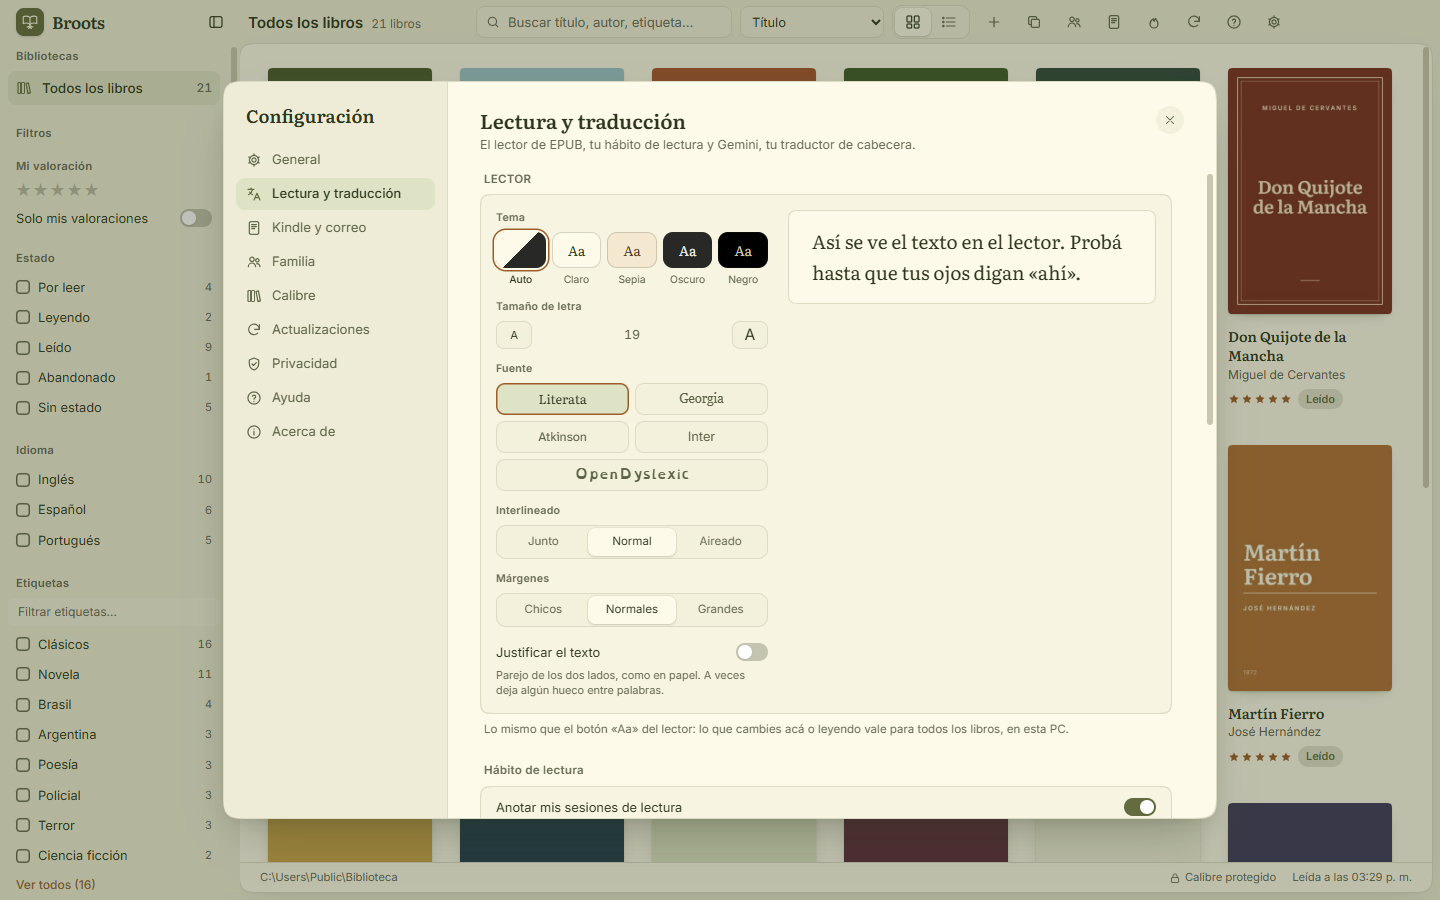
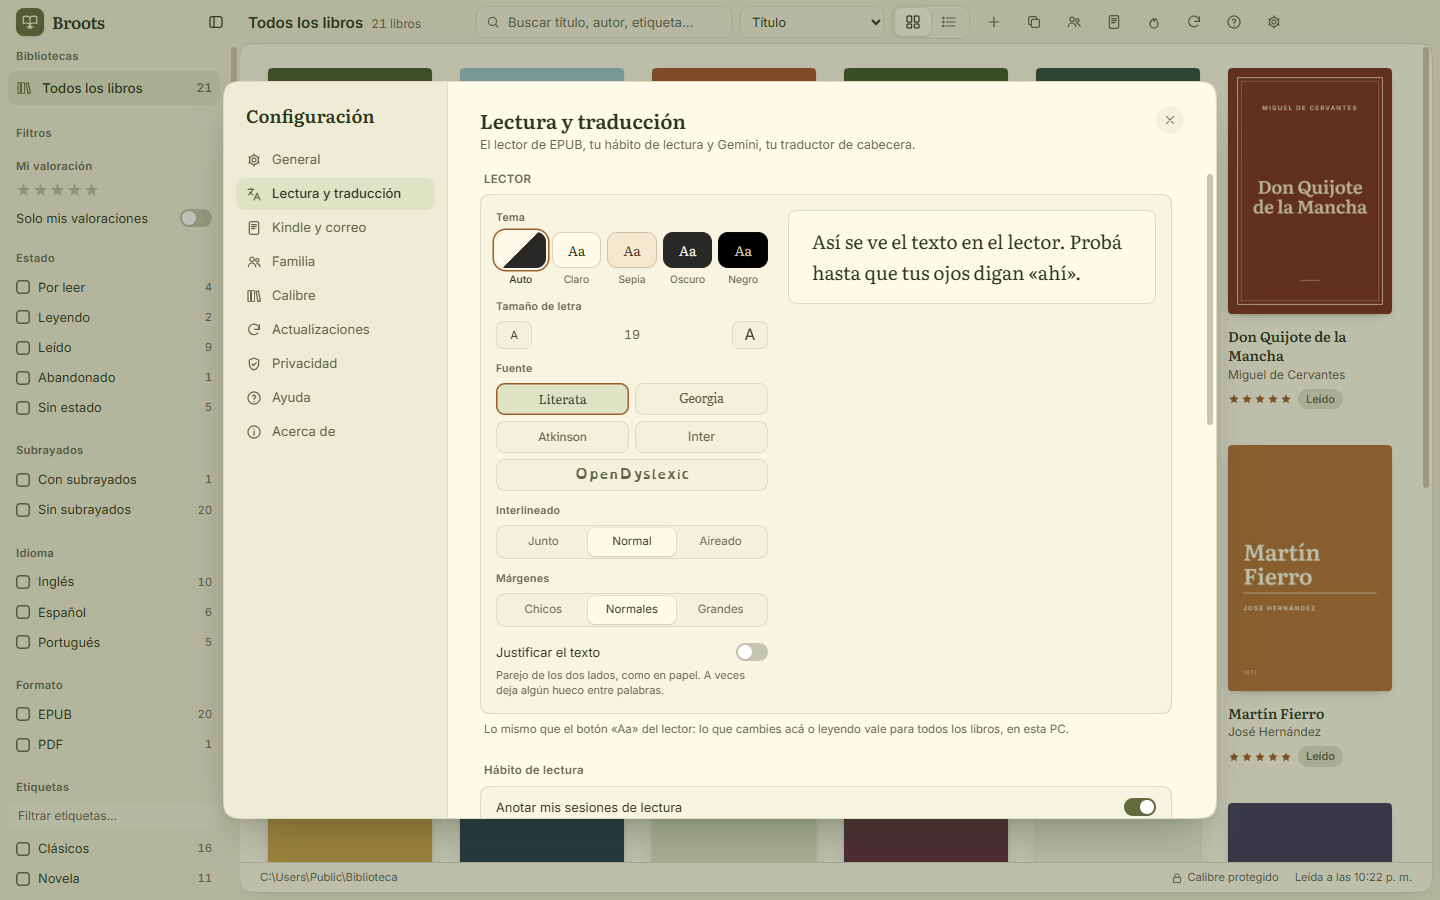
Broots 1.14.0

Changed region(s): [[0.0, 0.4978, 0.0938, 0.9956], [0.8125, 0.9644, 0.9375, 0.9956]]

diff --git a/README.md b/README.md
@@ -1,19 +1,28 @@
 # Broots
 
 **Tu biblioteca de libros electrónicos, compatible con Calibre.** Una app para Windows para ordenar, buscar,
-editar y leer tus e-books, mandarlos a tu Kindle, guardar tus subrayados y compartir libros con tu familia.
+editar y leer tus e-books (EPUB, PDF y cómics), subrayarlos, traducirlos, escucharlos en voz alta, mandarlos a tu
+Kindle y compartirlos con tu familia.
 
 Broots es gratis y es software libre. **[Bajar la última versión](https://github.com/IVANICUSXXIII/broots/releases/latest)**.
 
-> **English.** An e-book manager for Windows that works with your Calibre library. Free software (GPL-3.0 or
-> later), in English, Spanish and Brazilian Portuguese. [Download the latest version](https://github.com/IVANICUSXXIII/broots/releases/latest);
-> it updates itself from 1.6.0 on. The installer isn’t digitally signed yet ([code signing policy](#code-signing-policy)): if Windows says “Windows protected
-> your PC”, click “More info” and then “Run anyway”.
+> **English.** An e-book manager for Windows that works right on top of your Calibre library. Browse your shelf,
+> edit everything, and read EPUB, PDF and comics with highlights and notes, translation as you read, an offline
+> dictionary and read-aloud voices. Send books to your Kindle and share them with your family. Free software
+> (GPL-3.0 or later), in English, Spanish and Brazilian Portuguese, and it updates itself.
+> [Download the latest version](https://github.com/IVANICUSXXIII/broots/releases/latest).
+> The installer isn’t digitally signed yet ([why](#code-signing-policy)), so Windows will say “Windows protected
+> your PC”: click “More info” and then “Run anyway”. It’s built by GitHub Actions from the code in this repository,
+> and each release lists its SHA-256.
 >
-> **Português.** Um gerenciador de e-books para Windows que funciona com a sua biblioteca do Calibre. Software
-> livre (GPL-3.0 ou posterior), em português do Brasil, inglês e espanhol. [Baixe a versão mais recente](https://github.com/IVANICUSXXIII/broots/releases/latest);
-> a partir da 1.6.0 ele se atualiza sozinho. O instalador ainda não tem assinatura digital: se o Windows disser
-> “O Windows protegeu o computador”, clique em “Mais informações” e depois em “Executar assim mesmo”.
+> **Português.** Um gerenciador de e-books para Windows que funciona direto na sua biblioteca do Calibre. Estante
+> de capas, edição completa e leitura de EPUB, PDF e quadrinhos com destaques e notas, tradução enquanto você lê,
+> dicionário sem internet e leitura em voz alta. Envie livros para o Kindle e compartilhe com a família. Software
+> livre (GPL-3.0 ou posterior), em português do Brasil, inglês e espanhol, e se atualiza sozinho.
+> [Baixe a versão mais recente](https://github.com/IVANICUSXXIII/broots/releases/latest).
+> O instalador ainda não tem assinatura digital, então o Windows vai dizer “O Windows protegeu o computador”:
+> clique em “Mais informações” e depois em “Executar assim mesmo”. Ele é gerado pelo GitHub Actions a partir do
+> código deste repositório, e cada versão mostra o seu SHA-256.
 
 <picture>
   <source media="(prefers-color-scheme: dark)" srcset="docs/capturas/estanteria-oscuro.png">
@@ -42,35 +51,57 @@ la biblioteca (`metadata.db`).
 
 ## Qué podés hacer
 
-- **Tu estantería:** tus libros en grilla o en lista, con portadas grandes, filtros por autor, etiqueta o
-  serie, y el buscador con las mismas búsquedas que Calibre (`tags:novela`, `rating:>3`…). Las etiquetas con
-  jerarquía de Calibre («Sagas.Harry Potter») se ven en árbol, y también las bibliotecas virtuales que armaste.
+**Tu biblioteca**
+
+- **Tu estantería:** tus libros en grilla o en lista, con portadas grandes, filtros por autor, etiqueta,
+  serie, estado de lectura o idioma, y el buscador con las mismas búsquedas que Calibre (`tags:novela`,
+  `rating:>3`…). Las etiquetas con jerarquía de Calibre («Sagas.Harry Potter») se ven en árbol, y también las
+  bibliotecas virtuales que armaste. Doble clic en una portada y ya estás leyendo.
 - **Editar:** todos los datos de un libro (título, autores, serie, etiquetas, fechas, editorial, tus columnas
   propias), la portada y los formatos. «Buscar datos» trae datos y portadas de Google Books y Open Library, o
   de la página de un libro que pegues.
-- **Agregar y convertir:** arrastrá archivos a la ventana para sumarlos. Si un libro no tiene EPUB o PDF,
-  Broots lo convierte con las herramientas de Calibre.
+- **Agregar y convertir:** arrastrá archivos a la ventana para sumarlos. Si un archivo no trae datos, Broots
+  saca del nombre el título, el autor y la serie. Si un libro no tiene EPUB o PDF, lo convierte con las
+  herramientas de Calibre.
 - **Libros repetidos:** Broots encuentra los libros que tenés dos veces y te deja elegir cuál conservar,
   sin perder formatos ni subrayados.
+
+**Leer**
+
+- **Lector de EPUB, a tu medida:** tema (claro, sepia, oscuro o negro), cinco fuentes (entre ellas Atkinson,
+  muy legible, y OpenDyslexic), tamaño, interlineado y márgenes. Pellizcá el trackpad para agrandar la letra y
+  tocá una imagen para verla en grande.
+- **PDF y cómics:** PDF y cómics (CBZ y CBR) de a una o dos páginas, con zoom y manga de derecha a izquierda.
+  En los PDF también podés seleccionar texto, subrayar, anotar, definir, explicar y traducir. No abre archivos
+  con DRM ni con contraseña.
+- **Traducir:** con una clave gratuita de Gemini (tuya), Broots traduce el libro mientras leés: en un EPUB,
+  párrafo por párrafo en el lugar (tocás uno y ves el original); en un PDF, en un panel al costado.
+- **Explicar:** seleccioná una palabra, un nombre o una frase y Gemini te cuenta qué quiere decir ahí, sin
+  spoilers.
+- **Definir:** seleccioná una palabra y mirá qué significa, al instante y sin internet. Hay diccionario de
+  español, inglés y portugués, armados con Wiktionary; cada uno se baja la primera vez que lo pedís. Entiende
+  las palabras conjugadas: «corrió» te lleva a «correr».
+- **Escuchar:** Broots te lee el libro en voz alta, resaltando el párrafo que suena y pasando de página solo.
+  Sin internet, con voces que se bajan la primera vez (Daniela, con acento argentino, para español; Kristin
+  para inglés y Faber para portugués), o con la voz de Gemini. Si el párrafo está traducido, lee la traducción.
+  Por ahora, en EPUB.
+- **Subrayados y notas:** subrayá en cuatro colores y anotá lo que se te ocurra, en EPUB y en PDF. Tus
+  subrayados del Kindle aparecen en la misma lista, y cada libro tiene su archivo Markdown para Obsidian o
+  Notion, que se actualiza solo.
+- **Hábito de lectura:** Broots anota tus sesiones de lectura (con meta opcional y descanso para la vista) y
+  te muestra tu racha, tu ritmo, el mapa de calor del año y cuánto te falta para terminar cada libro. Estados
+  En pausa y Abandonado, relecturas y un modo enfoque que deja solo el texto.
+
+**Y además**
+
 - **Kindle:** mandá libros a tu Kindle por mail, desde tu cuenta de Gmail, e importá tus subrayados (el
   archivo `My Clippings.txt`). Si un libro está en el Kindle pero no en tu biblioteca, lo podés sumar.
 - **Club de lectura:** llevá un libro con tus subrayados y notas a Claude, Gemini o NotebookLM, para charlar
   sobre él con una inteligencia artificial.
-- **PDF y cómics:** leé PDF y cómics (CBZ y CBR) dentro de Broots, de a una o dos páginas, con zoom y manga de derecha a
-  izquierda. Tu página queda guardada y la lectura cuenta en «Mi lectura». No abre archivos con DRM ni con contraseña.
-- **Lector:** leé tus EPUB dentro de Broots, a tu medida: tema (claro, sepia, oscuro o negro), fuente,
-  tamaño, interlineado y márgenes. Con una clave gratuita de Gemini, traduce el libro mientras leés, y
-  «Explicar» te aclara una frase en su contexto.
-- **Definir:** seleccioná una palabra y mirá qué significa, al instante y sin internet. Hay diccionario de
-  español, inglés y portugués, armados con Wiktionary; cada uno se baja la primera vez que lo pedís.
-- **Subrayados y notas:** subrayá en cuatro colores y anotá lo que se te ocurra. Tus subrayados del Kindle
-  aparecen en la misma lista, y cada libro tiene su archivo Markdown para Obsidian o Notion.
-- **Hábito de lectura:** Broots anota tus sesiones de lectura (con meta opcional y descanso para la vista) y
-  te muestra tu racha, tu ritmo, el mapa de calor del año y cuánto te falta para terminar cada libro. Estados
-  En pausa y Abandonado, relecturas y un modo enfoque que deja solo el texto.
 - **Familia:** compartí libros con la gente de tu casa. Broots arma en tu Google Drive una copia solo con
   los libros de cada uno, que ellos abren en modo solo lectura.
-- **Ayuda:** un manual completo dentro de la app (tecla F1), con buscador.
+- **En tu idioma:** español, inglés y portugués de Brasil, con tema claro y oscuro.
+- **Ayuda:** un tour de bienvenida y un manual completo dentro de la app (tecla F1), con buscador.
 
 ## Cómo se ve
 
@@ -100,6 +131,14 @@ estés en un avión.
   <img src="docs/capturas/definir-claro.png" alt="El lector de Broots con el comienzo de Don Quijote y la definición de «hidalgo» en una tarjeta">
 </picture>
 
+**Un PDF, subrayado y traducido.** *The Adventures of Sherlock Holmes* en PDF: seleccionás el texto como en una
+página web, lo subrayás, y la traducción va en un panel al costado.
+
+<picture>
+  <source media="(prefers-color-scheme: dark)" srcset="docs/capturas/pdf-oscuro.png">
+  <img src="docs/capturas/pdf-claro.png" alt="El lector de PDF de Broots con el comienzo de A Scandal in Bohemia, una frase subrayada en amarillo y la traducción al español en un panel al costado">
+</picture>
+
 **Configuración.** Ordenada por secciones, como en macOS.
 
 <picture>
@@ -114,8 +153,12 @@ para crear tu biblioteca y sumá algunos libros.
 
 1. Bajá el instalador más reciente («Instalar-Broots-X.Y.Z.exe») de la
    [página de versiones de Broots](https://github.com/IVANICUSXXIII/broots/releases/latest) en GitHub.
-2. Abrilo. Como el instalador todavía no tiene firma digital, puede aparecer el aviso «Windows protegió su
-   PC»: tocá «Más información» y después «Ejecutar de todas formas».
+2. Abrilo. Como el instalador todavía no tiene firma digital, Windows muestra el aviso «Windows protegió su
+   PC»: tocá «Más información» y después «Ejecutar de todas formas». El aviso no quiere decir que Broots tenga
+   un virus: Windows lo muestra con cualquier programa nuevo que no tenga firma (un certificado que cuesta plata
+   o que una fundación da gratis a los proyectos con usuarios; Broots lo va a pedir de nuevo más adelante). Si
+   querés comprobar que el archivo es el original, cada versión muestra su huella SHA-256 y una constancia de que
+   lo armó GitHub a partir del código de este repositorio.
 3. Broots busca solo la biblioteca de Calibre de tu PC. Si no la encuentra, te pide que elijas la carpeta
    (la que tiene el archivo `metadata.db`). Puede estar en Google Drive.
 
@@ -131,6 +174,9 @@ mandan a ningún lado por su cuenta. Esto es lo único que sale de tu PC, y solo
 | Qué | Hacia dónde | Cuándo |
 |---|---|---|
 | El texto de los párrafos que traducís | Gemini (Google) | Solo si cargaste tu clave y activaste la traducción en el lector. |
+| Lo que seleccionás para «Explicar», con el párrafo que lo rodea | Gemini (Google) | Cuando tocás «Explicar». |
+| El texto que escuchás con la voz de Gemini | Gemini (Google) | Solo si elegiste esa voz en «Escuchar». Las voces sin internet leen en tu PC. |
+| La descarga de un diccionario o de una voz | GitHub (diccionarios) y Hugging Face (voces) | La primera vez que usás «Definir» o «Escuchar» en un idioma. No viaja nada tuyo. |
 | El libro que enviás al Kindle | Gmail (Google) → Amazon | Cuando tocás «Enviar al Kindle». |
 | Título, autor e ISBN del libro que buscás | Google Books y Open Library | Cuando tocás «Buscar datos» al editar un libro. |
 | Lo mismo, también a Amazon | Amazon | Solo si lo prendés en Configuración → Privacidad (viene apagado). |
@@ -159,7 +205,11 @@ Broots es software libre, con licencia [GNU GPL versión 3](LICENSE) o posterior
 y cambiarlo. Si publicás una versión cambiada, también tiene que ser libre y con su código abierto.
 
 Lee PDF con [pdf.js](https://github.com/mozilla/pdf.js) (Apache 2.0) y cómics RAR con [libarchive](https://github.com/libarchive/libarchive)
-(BSD), a través de [libarchive-wasm](https://github.com/ofk/libarchive-wasm) (MIT). Sus avisos están en
+(BSD), a través de [libarchive-wasm](https://github.com/ofk/libarchive-wasm) (MIT), y lee en voz alta con
+[sherpa-onnx](https://github.com/k2-fsa/sherpa-onnx) (Apache 2.0) y [espeak-ng](https://github.com/espeak-ng/espeak-ng)
+(GPL 3). Los diccionarios son un resumen de [Wiktionary](https://www.wiktionary.org/) (CC BY-SA 4.0) y viven en
+[su propio repositorio](https://github.com/IVANICUSXXIII/broots-diccionarios); las voces sin internet son las del
+proyecto [Piper](https://huggingface.co/rhasspy/piper-voices), cada una con su licencia. Todos los avisos están en
 [`app/licencias-de-terceros.txt`](app/licencias-de-terceros.txt).
 
 Broots usa las herramientas de [Calibre](https://calibre-ebook.com/), de Kovid Goyal y su comunidad (también
@@ -190,7 +240,8 @@ Free code signing provided by [SignPath.io](https://about.signpath.io/), certifi
   personal data: the check for new versions of Broots on GitHub (when Broots opens and every six hours; it can be
   turned off in Settings → Updates) and, only when Calibre is not installed, the download of Calibre’s official
   tools from GitHub and calibre-ebook.com and a weekly check for new versions of them. Everything else happens only
-  when the user uses that feature: translating text with Gemini (Google), with the user’s own key; sending a book
+  when the user uses that feature: translating, explaining or reading aloud text with Gemini (Google), with the
+  user’s own key; downloading a dictionary (from GitHub) or an offline voice (from Hugging Face); sending a book
   to a Kindle through the user’s Gmail account; and looking up a book’s title, author and ISBN on Google Books and
   Open Library (and Amazon, only if the user turns it on). Broots has no servers of its own and no telemetry. Details, in Spanish, in
   [Privacidad](#privacidad).

diff --git a/CLAUDE.md b/CLAUDE.md
@@ -125,7 +125,7 @@ El corredor arma la biblioteca de prueba copiando la base real (solo lectura) y 
 
 Un escenario puede sumar claves al `config.json` de prueba con `config: () => ({ … })` (el corredor lo escribe con `JSON.stringify` y siempre fija `libraryPath` a la biblioteca de prueba) y mandarle datos a su prueba con `datos: () => ({ … })`. `pruebas/libros-de-prueba.mjs` arma a mano PDF (también con DRM o contraseña), CBZ y CBR (RAR 4 y 5, sin compresión; sin WinRAR no se pueden armar comprimidos).
 
-Las capturas del README (`docs/capturas/`, tema claro y oscuro) se sacan con `node pruebas/capturas.mjs [pantalla]`. No usan la biblioteca real ni la de prueba (que copia títulos reales): arman una con clásicos de dominio público (`pruebas/capturas/libros.mjs`, portadas y EPUB hechos ahí) en `%PUBLIC%\Biblioteca`, porque la ruta se ve en la ventana y en `%TEMP%` mostraría el usuario de la PC. Hace falta Calibre instalado.
+Las capturas del README (`docs/capturas/`, tema claro y oscuro) se sacan con `node pruebas/capturas.mjs [pantalla]`. No usan la biblioteca real ni la de prueba (que copia títulos reales): arman una con clásicos de dominio público (`pruebas/capturas/libros.mjs`, portadas y EPUB hechos ahí; el PDF de la captura `pdf` lo imprime Electron en `capturas/portadas.cjs`, con capa de texto de verdad) en `%PUBLIC%\Biblioteca`, porque la ruta se ve en la ventana y en `%TEMP%` mostraría el usuario de la PC. Hace falta Calibre instalado.
 
 ## Versiones e instalador
 
